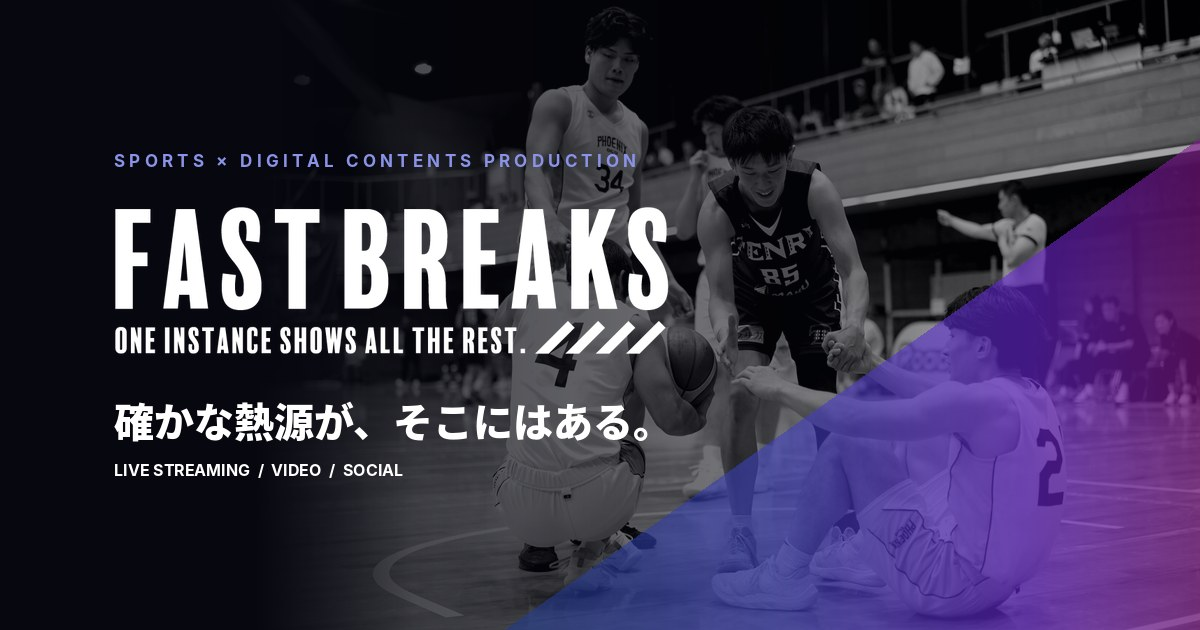
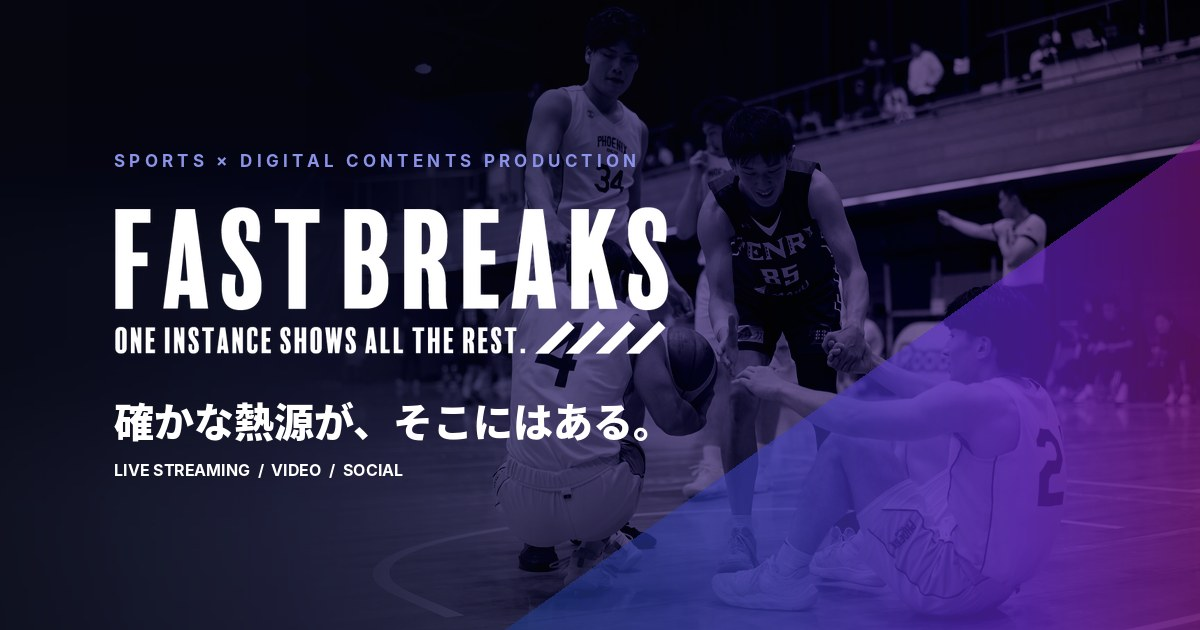
v1.7.38: share image with design-system photo treatment, deeper blacks, softer left edge
Claude-Session: https://claude.ai/code/session_01NPKeWogat8UaYgYySaEusA

diff --git a/style.css b/style.css
@@ -3,7 +3,7 @@ Theme Name: FASTBREAKS
 Theme URI: https://www.fastbreaks.jp/
 Author: FASTBREAKS
 Description: FASTBREAKS コーポレートサイト用オリジナルテーマ。全面ダーク、Bebas Neue × Helvetica Bold × Noto Sans JP、ブルー→パープルのディープグラデーション。
-Version: 1.7.37
+Version: 1.7.38
 Requires at least: 6.4
 Requires PHP: 8.0
 License: GNU General Public License v2 or later

diff --git a/functions.php b/functions.php
@@ -6,7 +6,7 @@
 
 if ( ! defined( 'ABSPATH' ) ) { exit; }
 
-define('FB_THEME_VER','1.7.37');
+define('FB_THEME_VER','1.7.38');
 define( 'FB_THEME_URI', get_template_directory_uri() );
 define( 'FB_THEME_DIR', get_template_directory() );
 
